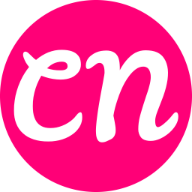
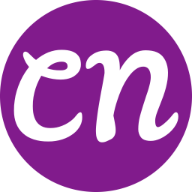
custom background image; switched to purple

diff --git a/css/main.css b/css/main.css
@@ -90,7 +90,7 @@ a, a:visited {
 	transition: all 0.3s ease-in-out;
 }
 a:hover, a:focus, a:active {
-	color: #FF0077;
+	color: #811b8c;
 	outline: 0;
 }
 
@@ -301,7 +301,7 @@ ul.disc li::before {
 	width: 8px;
 	height: 8px;
 	border-radius: 50%;
-	background: #FF0077;
+	background: #811b8c;
 	position: absolute;
 	left: -17px;
 	top: 11px;
@@ -309,7 +309,7 @@ ul.disc li::before {
 }
 dt {
 	margin: 0;
-	color: #FF0077;
+	color: #811b8c;
 }
 dd {
 	margin: 0 0 0 2rem;
@@ -429,7 +429,7 @@ img.pull-left {
 	display: none;
 }
 .pace .pace-progress {
-	background: #FF0077;
+	background: #811b8c;
 	position: fixed;
 	z-index: 900;
 	top: 0;
@@ -472,7 +472,7 @@ img.pull-left {
 	border-top: 11px solid rgba(255, 255, 255, 0.1);
 	border-right: 11px solid rgba(255, 255, 255, 0.1);
 	border-bottom: 11px solid rgba(255, 255, 255, 0.1);
-	border-left: 11px solid #FF0077;
+	border-left: 11px solid #811b8c;
 	-webkit-animation: load 1.1s infinite linear;
 	animation: load 1.1s infinite linear;
 	display: block;
@@ -594,8 +594,8 @@ input[type="url"]:focus,
 input[type="password"]:focus,
 textarea:focus,
 select:focus {
-	color: #cc005f;
-	border-bottom: 1px solid #FF0077;
+	color: #811b8c;
+	border-bottom: 1px solid #811b8c;
 }
 label, legend {
 	font-family: "poppins-bold", sans-serif;
@@ -736,8 +736,8 @@ button.stroke.large, .button.stroke.large {
 	line-height: 5.4rem !important;
 }
 button.stroke:hover, .button.stroke:hover {
-	border: 3px solid #FF0077;
-	color: #FF0077;
+	border: 3px solid #811b8c;
+	color: #811b8c;
 }
 button::-moz-focus-inner, input::-moz-focus-inner {
 	border: 0;
@@ -925,7 +925,7 @@ button::-moz-focus-inner, input::-moz-focus-inner {
 	color: #252525;
 }
 .stats-tabs li a:hover {
-	color: #FF0077;
+	color: #811b8c;
 }
 .stats-tabs li a em {
 	display: block;
@@ -1041,7 +1041,7 @@ button::-moz-focus-inner, input::-moz-focus-inner {
 	margin-bottom: 1.2rem;
 }
 .section-intro h5 {
-	color: #FF0077;
+	color: #811b8c;
 	font-size: 1.6rem;
 	line-height: 1.875;
 	margin-bottom: 0.3rem;
@@ -1138,7 +1138,7 @@ header .logo a {
 }
 .menu-toggle span {
 	display: block;
-	background-color: #FF0077;
+	background-color: #811b8c;
 	width: 24px;
 	height: 3px;
 	margin-top: -1.5px;
@@ -1196,7 +1196,7 @@ header .logo a {
 	background-color: rgba(255, 0, 119, 0);
 }
 .menu-toggle.is-clicked span::before, .menu-toggle.is-clicked span::after {
-	background-color: #ff0077;
+	background-color: #811b8c;
 	-moz-transition-delay: 0s, 0.2s;
 	-o-transition-delay: 0s, 0.2s;
 	-webkit-transition-delay: 0s, 0.2s;
@@ -1252,12 +1252,12 @@ header .logo a {
 	border: none;
 }
 .main-navigation li a:hover {
-	color: #FF0077;
+	color: #811b8c;
 	padding-left: 1rem;
 }
 .main-navigation li.current > a {
 	background: none;
-	color: #FF0077;
+	color: #811b8c;
 }
 
 /**
@@ -1294,7 +1294,7 @@ header .logo a {
  * ------------------------------------------------------------------- 
  */
 #intro {
-	background: #151515 url(../images/intro-bg.jpg) no-repeat center bottom;
+	background: #151515 url(../images/pittscore.jpg) no-repeat 0% 70%;
 	-webkit-background-size: cover;
 	-moz-background-size: cover;
 	background-size: cover;
@@ -1302,6 +1302,7 @@ header .logo a {
 	width: 100%;
 	height: 100%;
 	min-height: 720px;
+	max-height: 800px;
 	display: table;
 	position: relative;
 	text-align: center;
@@ -1313,7 +1314,7 @@ header .logo a {
 	width: 100%;
 	height: 100%;
 	background: #111111;
-	opacity: .85;
+	opacity: .75;
 }
 
 .intro-content {
@@ -1337,7 +1338,7 @@ header .logo a {
 	text-shadow: 0 0 20px rgba(0, 0, 0, 0.5);
 }
 .intro-content h5 {
-	color: #cc005f;
+	color: #811b8c;
 	font-family: "poppins-bold", sans-serif;
 	font-size: 2.3rem;
 	line-height: 1.565;
@@ -1384,7 +1385,7 @@ header .logo a {
 	letter-spacing: .25rem;
 }
 .intro-content .button:hover, .intro-content .button:focus {
-	border-color: #cc005f;
+	border-color: #811b8c;
 }
 .intro-content .button::after {
 	display: inline-block;
@@ -1416,7 +1417,7 @@ header .logo a {
 	color: #FFFFFF;
 }
 .intro-social li a:hover, .intro-social li a:focus {
-	color: #cc005f;
+	color: #811b8c;
 }
 
 /**
@@ -1629,7 +1630,7 @@ header .logo a {
 	text-align: center;
 }
 #resume .resume-header h2 {
-	color: #FF0077;
+	color: #811b8c;
 }
 
 #resume .resume-timeline {
@@ -1956,7 +1957,7 @@ header .logo a {
 	border-right: 1px solid rgba(200, 200, 200, 0.1);
 }
 .popup-modal .link-box a:hover {
-	background: #cc005f;
+	background: #811b8c;
 	border: none;
 }
 @media only screen and (max-width:600px) {
@@ -2122,7 +2123,7 @@ header .logo a {
 	color: white;
 }
 #services .section-intro h5 {
-	color: #FF0077;
+	color: #811b8c;
 }
 #services .section-intro p {
 	color: rgba(255, 255, 255, 0.7);
@@ -2144,7 +2145,7 @@ header .logo a {
 }
 .services-list .icon i {
 	font-size: 5.4rem;
-	color: #FF0077;
+	color: #811b8c;
 }
 .services-list h3 {
 	color: #FFFFFF;
@@ -2172,7 +2173,7 @@ header .logo a {
 	background: #FFFFFF;
 }
 .owl-theme .owl-controls .owl-page.active span {
-	background: #FF0077;
+	background: #811b8c;
 }
 
 
@@ -2258,7 +2259,7 @@ header .logo a {
 	color: white;
 }
 #contact .section-intro h5 {
-	color: #FF0077;
+	color: #811b8c;
 }
 #contact .section-intro p {
 	color: rgba(255, 255, 255, 0.7);
@@ -2311,7 +2312,7 @@ header .logo a {
 	padding: 0 2rem;
 	margin: 0;
 	color: #FFFFFF;
-	background: #FF0077;
+	background: #811b8c;
 }
 #contact form .form-field label::after {
 	position: absolute;
@@ -2320,7 +2321,7 @@ header .logo a {
 	margin-top: -6px;
 	border-top: 5px solid transparent;
 	border-bottom: 5px solid transparent;
-	border-right: 5px solid #FF0077;
+	border-right: 5px solid #811b8c;
 	content: "";
 }
 #contact input[type="text"],
@@ -2342,7 +2343,7 @@ header .logo a {
 #contact input[type="text"]:focus,
 #contact input[type="password"]:focus,
 #contact input[type="email"]:focus {
-	border-color: #FF0077;
+	border-color: #811b8c;
 	color: #FFFFFF;
 }
 #contact textarea {
@@ -2350,7 +2351,7 @@ header .logo a {
 	padding: 1.8rem 2rem;
 }
 #contact textarea:focus {
-	border-color: #FF0077;
+	border-color: #811b8c;
 	color: #FFFFFF;
 }
 #contact button.submitform {
@@ -2362,11 +2363,11 @@ header .logo a {
 	padding: 0 3rem;
 	margin-top: 4.8rem;
 	width: 100%;
-	background: #FF0077;
+	background: #811b8c;
 	color: #FFFFFF;
 }
 #contact button.submitform:hover, #contact button.submitform:focus {
-	background: #cc005f;
+	background: #811b8c;
 }
 #message-warning, #message-success {
 	display: none;
@@ -2380,7 +2381,7 @@ header .logo a {
 	color: #fa0003;
 }
 #message-success {
-	color: #FF0077;
+	color: #811b8c;
 }
 #message-warning i, #message-success i {
 	margin-right: 10px;
@@ -2425,7 +2426,7 @@ header .logo a {
 	color: #FFFFFF;
 }
 .contact-info h5 {
-	color: #FF0077;
+	color: #811b8c;
 }
 
 /**
@@ -2499,7 +2500,7 @@ footer a, footer a:visited {
 	color: #FFFFFF;
 }
 footer a:hover, footer a:focus {
-	color: #FF0077;
+	color: #811b8c;
 }
 footer .row {
 	max-width: 900px;
@@ -2578,7 +2579,7 @@ footer .copyright span:last-child::after {
 	width: 6rem;
 	line-height: 6.6rem;
 	text-align: center;
-	background: #cc005f;
+	background: #811b8c;
 	color: #FFFFFF;
 	text-align: center;
 	text-transform: uppercase;

diff --git a/gale.html b/gale.html
@@ -45,11 +45,9 @@
 
    		<div class="top-bar">
    			<a class="menu-toggle" href="#"><span>Menu</span></a>
-<!-- logo TODO FIX THIS ---------------------------------
 	   		<div class="logo">
 		         <a href="index.html">Test</a>
-		      </div>		      
--->
+		    </div>		      
 		   	<nav id="main-nav-wrap">
 					<ul class="main-navigation">
 						<li class="current"><a class="smoothscroll"  href="#intro" title="">Home</a></li>
